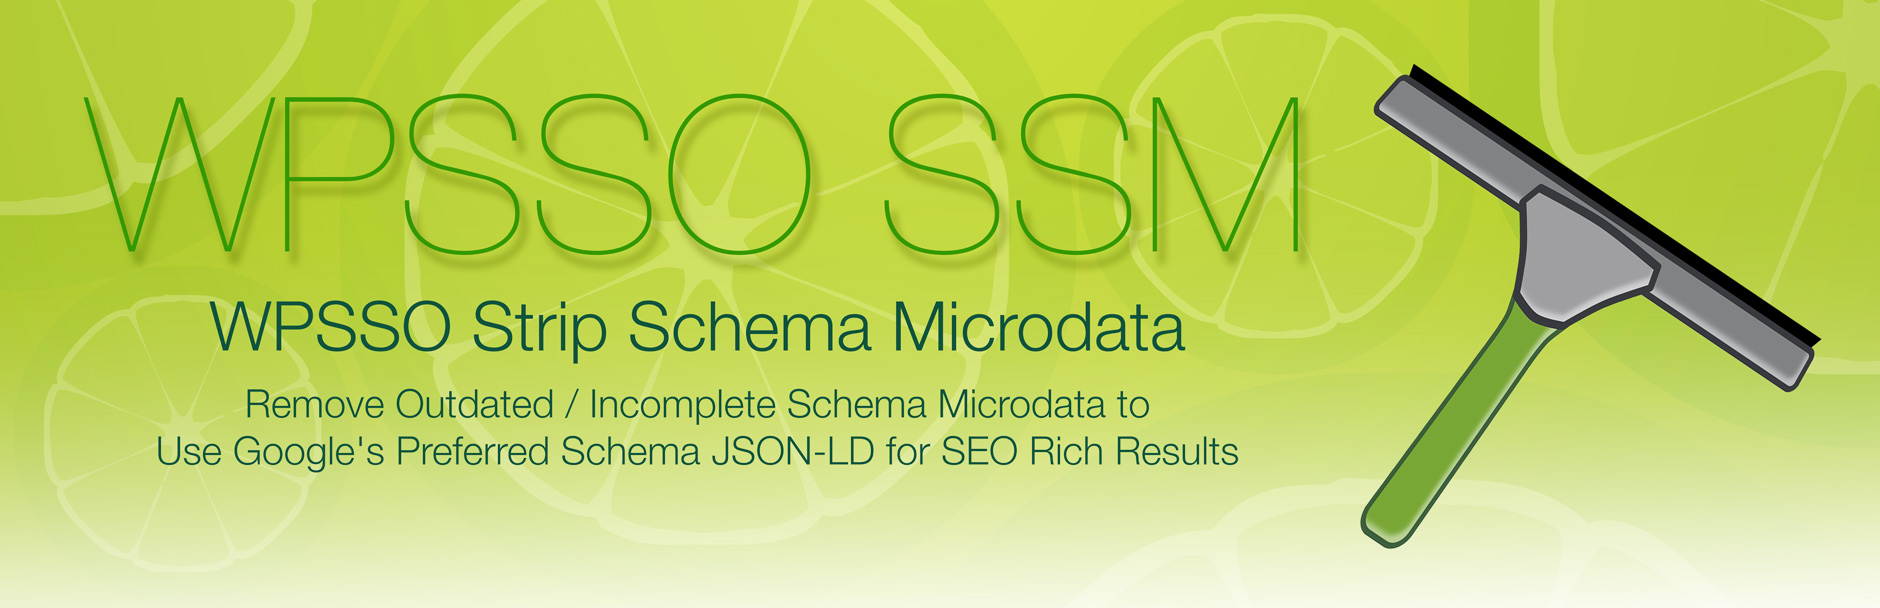
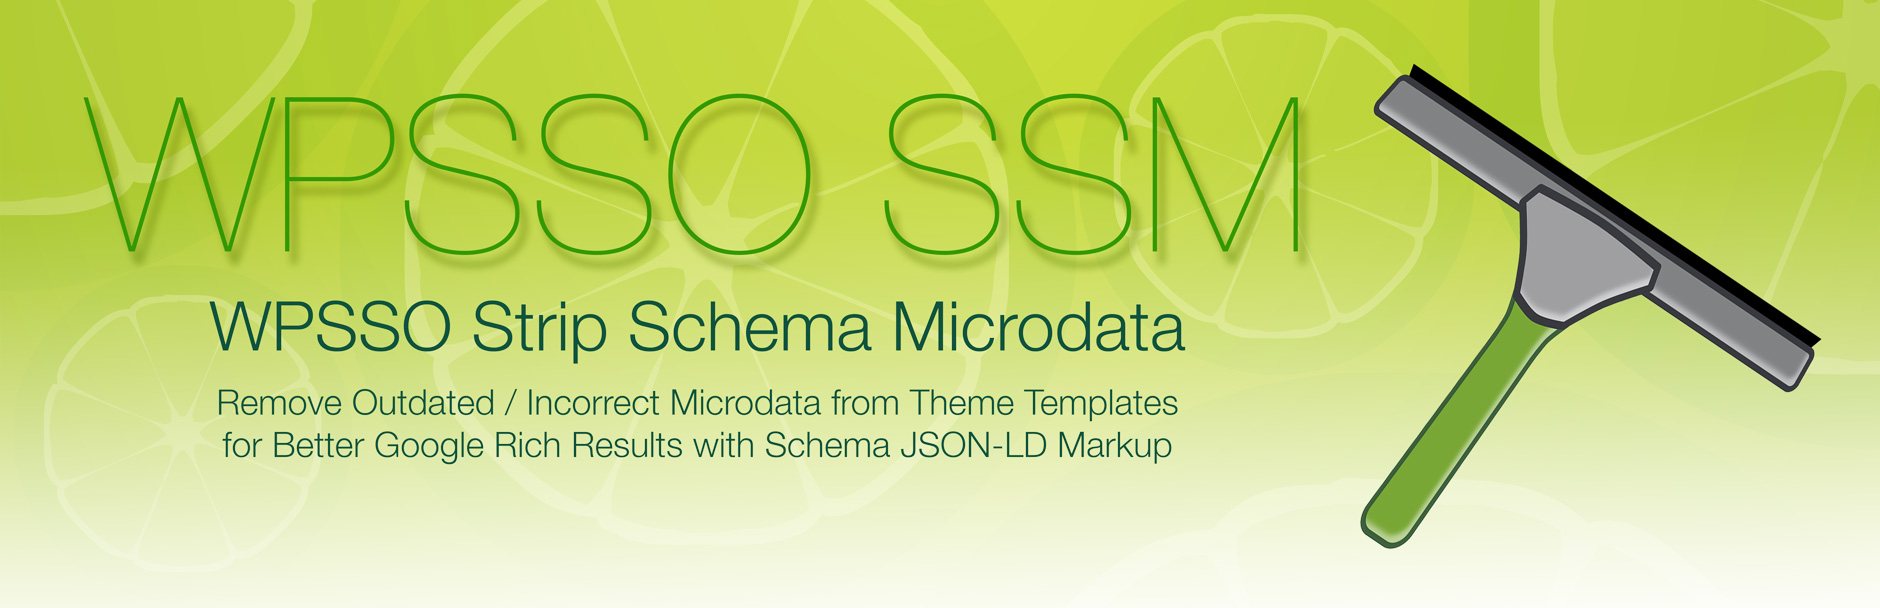
non-essential support files (documentation and assets)

diff --git a/index.html b/index.html
@@ -29,7 +29,7 @@
 
 <table>
 <tr><th align="right" valign="top" nowrap>Plugin Name</th><td>WPSSO Strip Schema Microdata</td></tr>
-<tr><th align="right" valign="top" nowrap>Summary</th><td>Removes outdated Schema microdata from theme templates and leaves Schema JSON-LD untouched for better Google Rich Results.</td></tr>
+<tr><th align="right" valign="top" nowrap>Summary</th><td>Remove Outdated / Incorrect Microdata from Theme Templates for Better Google Rich Results with Schema JSON-LD Markup.</td></tr>
 <tr><th align="right" valign="top" nowrap>Stable Version</th><td>2.0.3</td></tr>
 <tr><th align="right" valign="top" nowrap>Requires PHP</th><td>5.6 or newer</td></tr>
 <tr><th align="right" valign="top" nowrap>Requires WordPress</th><td>4.2 or newer</td></tr>
